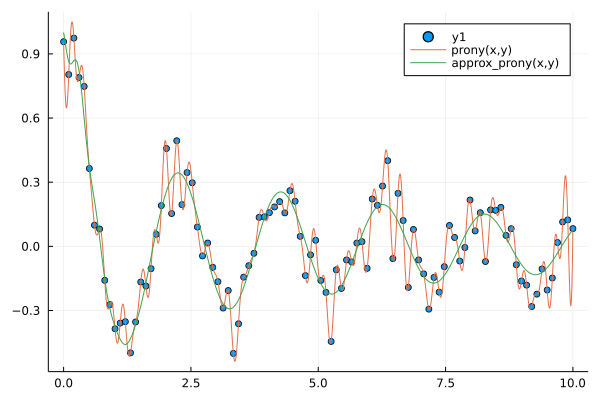
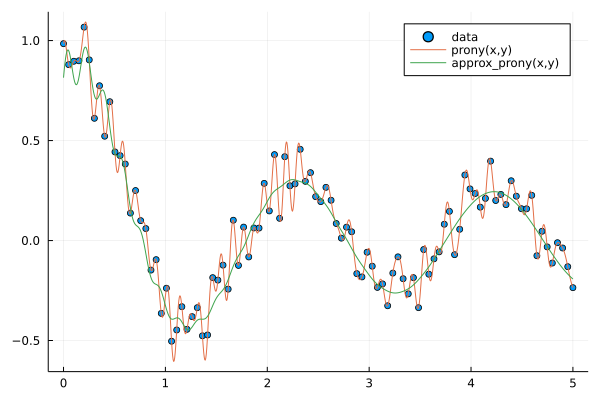
change readme

diff --git a/README.md b/README.md
@@ -23,16 +23,16 @@ Usage:
 ```
 using Prony, Plots, SpecialFunctions
 
-x = LinRange(0, 10, 100)
+x = LinRange(0, 5, 100)
 y = @. besselj0.(π*x)+0.1*randn() 
 
 pronyfunc = prony(x, y)
 approx_pronyfunc = prony(x, y, 5)
 
-scatter(x, y)
-xnew = LinRange(0, 10, 1000)
-plot!(xnew, pronyfunc.(xnew), label="prony(x,y)")
-plot!(xnew, approx_pronyfunc.(xnew), label="approx_prony(x,y)")
+p = scatter(x, y, label="data")
+xnew = LinRange(0, 5, 1000)
+plot!(p, xnew, pronyfunc.(xnew), label="prony(x,y)")
+plot!(p, xnew, approx_pronyfunc.(xnew), label="approx_prony(x,y)")
 ```
 
 ![Example Plot](prony.png)
